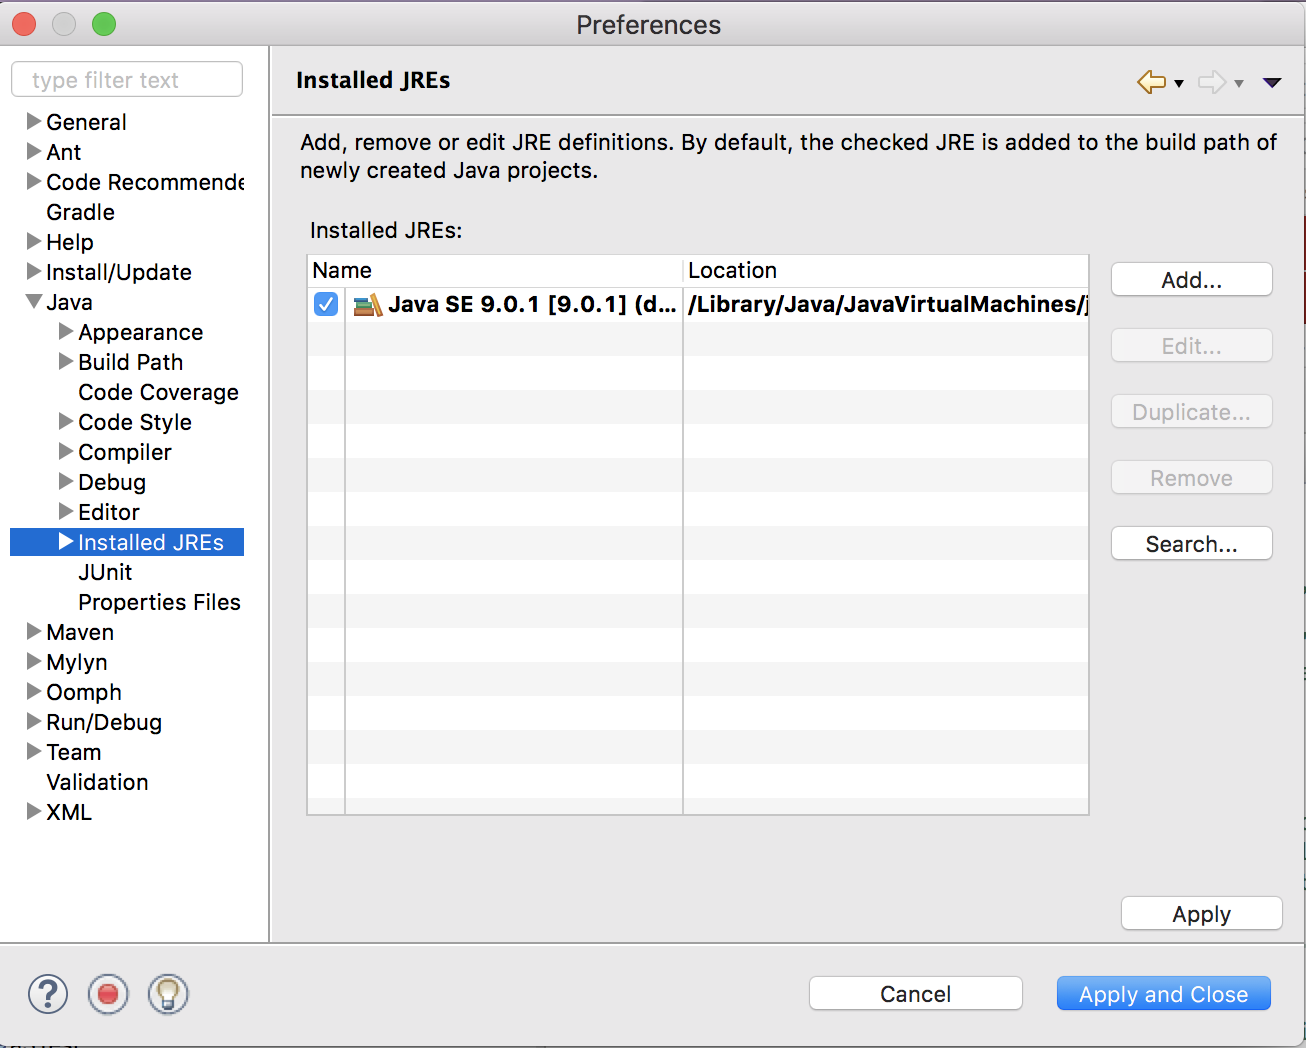
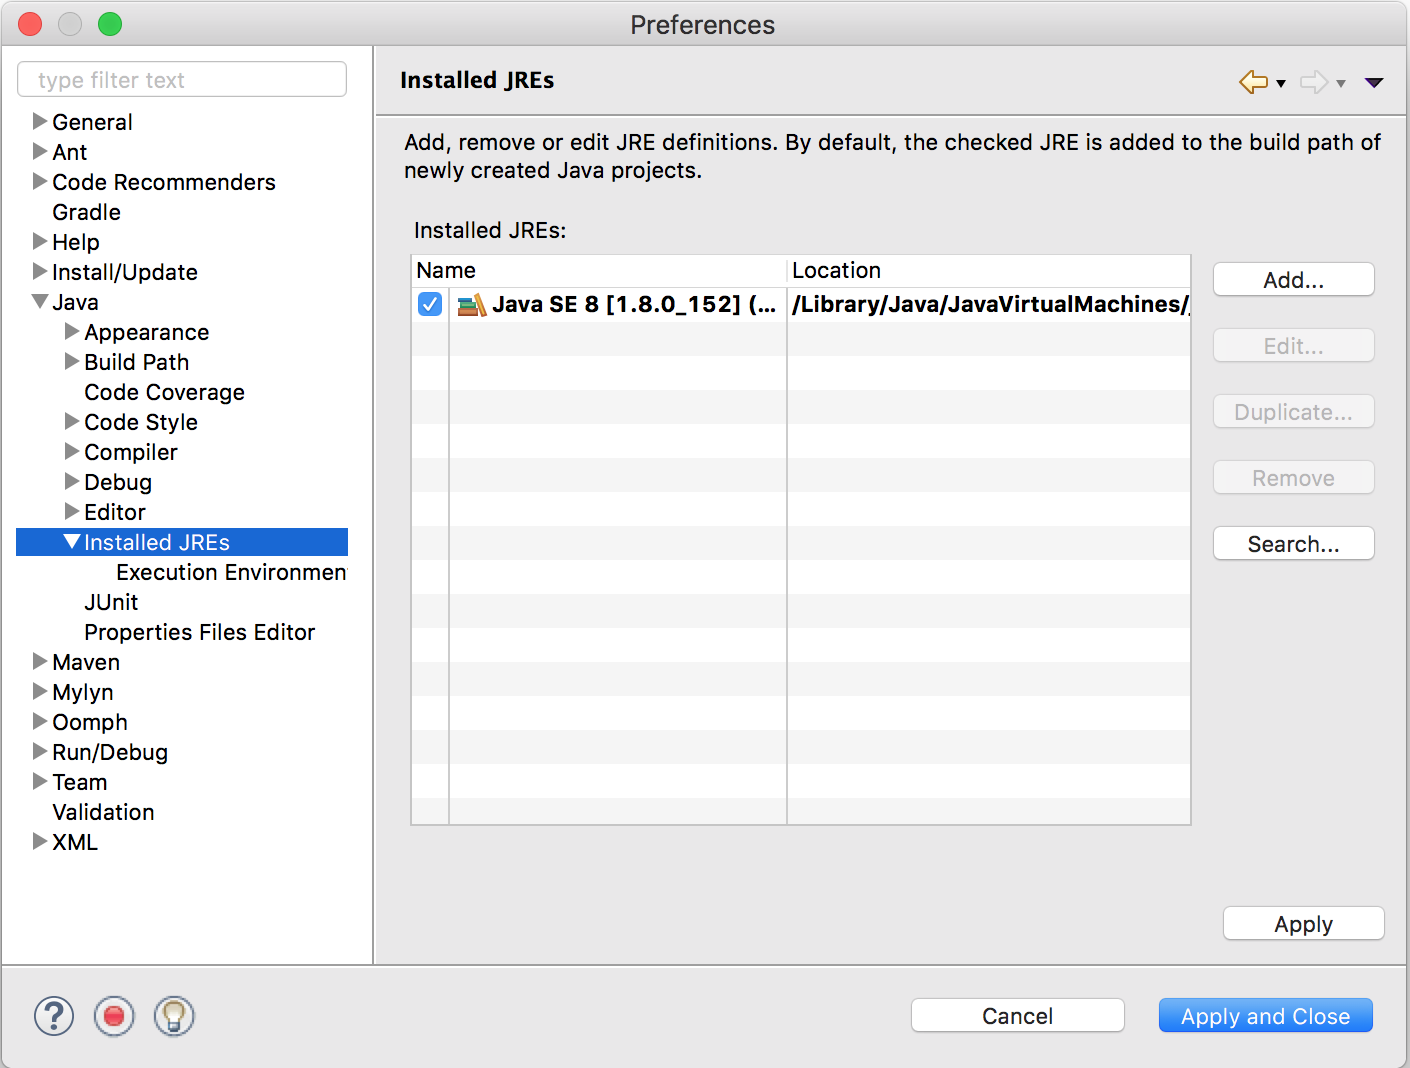
fix assert -ea

Changed region(s): [[0.0, 0.0, 1.0, 1.0], [0.2757, 0.7634, 0.827, 0.7939], [0.4288, 0.0, 0.5513, 0.0305]]

diff --git a/eclipse/Ecl10Assert.html b/eclipse/Ecl10Assert.html
@@ -221,7 +221,7 @@ BFS</span></a></li>
 	By default, assert-statement execution is turned off. You can turn it on for each individual run or execution of a program. We show how to do that below. But in Eclipse, you change the setting so that assert-statement execution is <em>always</em> done. We suggest you change that setting now. Here's how:</P>
 <p >
     1. Use menu item Preferences -&gt; Java -&gt; Installed JREs. You will see a window that looks something like the one shown to the right.</P>
-<p >2. Select Installed JRE Java SE 9.0.1 (or another one if you like; it should be the one you normally use).</P>
+<p >2. Select Installed JRE Java SE-1.8 (or another one if you like; it should be the one you normally use).</P>
 <p >3. The Edit button will become available. Click it. A second window will open, the one shown below.</P>
 <p ><img src="installedJREsEdit.png" width="440" align="right" hspace="5" alt=""/>
 	4. In the <em>Default VM arguments field</em>, type</P>
